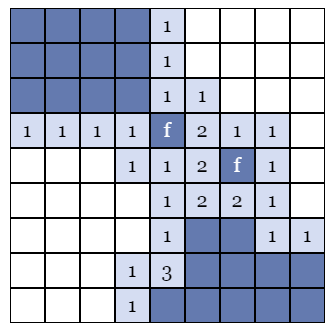
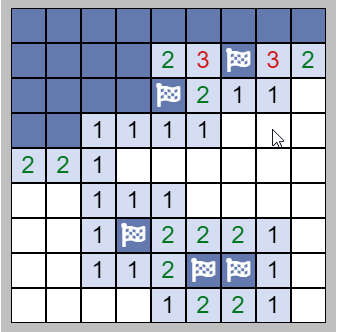
Upgrades minesweeper styling

diff --git a/src/app/games/minesweeper/minesweeper.component.html b/src/app/games/minesweeper/minesweeper.component.html
@@ -1,97 +1,147 @@
 <div class="router-page">
-  <form class="form-inline">
+  <form class="form-inline flex-nowrap">
+    
+    <button class="btn btn-primary mb-2" (click)="createGame()" [disabled]="!validateAll()">
+      <i class="fas fa-sync-alt"></i>
+    </button>
+    <button class="btn btn-primary mb-2" (click)="autoReveal()" [disabled]="gameData.autoReveals <= 0 || !startTime || gameDisabled">
+      <i class="far fa-eye"></i> <span class="badge badge-secondary btn-badge">{{gameData.autoReveals}}</span>
+    </button>
     <label class="sr-only">Unflagged Mines</label>
-    <div class="input-group mb-1 mr-sm-1 value-input-div">
+    <div class="input-group mb-1 mr-xs-1 value-input-div">
       <div class="input-group-prepend">
-        <div class="input-group-text badge-info">Unflagged Mines</div>
+        <div class="input-group-text badge-info"><i class="fas fa-flag-checkered"></i></div>
       </div>
-      <span class="form-control">
+      <span class="form-control unselectable">
         {{grid.getUnflaggedMineCount()}}
       </span>
     </div>
 
     <label class="sr-only">Time</label>
-    <div class="input-group mb-1 mr-sm-1 value-input-div">
+    <div class="input-group mb-1 mr-xs-1 value-input-div">
       <div class="input-group-prepend">
-        <div class="input-group-text badge-info">Timer</div>
+        <div class="input-group-text badge-info"><i class="far fa-clock"></i></div>
       </div>
-      <span class="form-control">
+      <span class="form-control unselectable">
         {{displayTime}}
       </span>
     </div>
   </form>
 
-  <canvas #myCanvas oncontextmenu="return false;" (appPress)="click($event)"></canvas>
+  <div class="canvas-div">
+    <canvas #myCanvas oncontextmenu="return false;" (appPress)="click($event)"></canvas>
+  </div>
 
   <form class="form-inline">
-    <button class="btn btn-primary mb-2" (click)="createGame()" [disabled]="!validateAll()">
-      New Game
+    <button class="btn btn-primary mb-2" (click)="settingsModal.show()">
+      <i class="fas fa-cog"></i> <span class="badge badge-secondary btn-badge">{{difficulty.name}}</span>
     </button>
-    <button class="btn btn-default mb-2" (click)="autoReveal()" [disabled]="gameData.autoReveals <= 0 || !startTime || gameDisabled">
-      Auto Reveal <span class="badge badge-secondary">{{gameData.autoReveals}} left</span>
+    <button class="btn btn-primary mb-2" (click)="statsModal.show()">
+      <i class="fas fa-chart-bar"></i>
+    </button>
+    <button class="btn btn-primary mb-2" (click)="helpModal.show()">
+      <i class="fas fa-question-circle"></i>
     </button>
   </form>
-  <hr />
-
-  <h3>Settings</h3>
-  <form class="form-inline">
-    <label class="sr-only" for="difficulty">Difficulty</label>
-    <div class="input-group mb-1 mr-sm-1 value-input-div">
-      <div class="input-group-prepend">
-        <div class="input-group-text">Difficulty</div>
-      </div>
-      <select class="form-control" id="difficulty" name="difficulty" required [ngModel]="difficulty" (ngModelChange)="onDifficultyChange($event)">
-        <option *ngFor="let diff of difficulties"  name="diff" [ngValue]="diff">{{diff.name}}</option>
-      </select>
-    </div>
-
-    <label class="sr-only" for="gridX">Columns</label>
-    <div class="input-group mb-1 mr-sm-1 value-input-div">
-      <div class="input-group-prepend">
-        <div class="input-group-text">Columns</div>
-      </div>
-      <input type="number" class="form-control" id="gridX" placeholder="X" name="gridX" [(ngModel)]="gridX" (ngModelChange)="createGame()"
-        min="{{minColumns}}" max="{{maxColumns}}" required [ngClass]="{'is-invalid': !validateColumns()}" [disabled]="!difficulty.isCustom">
-    </div>
-
-    <label class="sr-only" for="gridY">Rows</label>
-    <div class="input-group mb-1 mr-sm1 value-input-div">
-      <div class="input-group-prepend">
-        <div class="input-group-text">Rows</div>
-      </div>
-      <input type="number" class="form-control" id="gridY" placeholder="gridY" name="gridY" [(ngModel)]="gridY" (ngModelChange)="createGame()"
-        min="{{minRows}}" max="{{maxRows}}" required [ngClass]="{'is-invalid': !validateRows()}" [disabled]="!difficulty.isCustom">
-    </div>
-
-    <label class="sr-only" for="gridMines">Mines</label>
-    <div class="input-group mb-1 mr-sm1 value-input-div">
-      <div class="input-group-prepend">
-        <div class="input-group-text">Mines</div>
-      </div>
-      <input type="number" class="form-control" id="gridMines" placeholder="gridMines" name="gridMines" [(ngModel)]="gridMines" (ngModelChange)="createGame()"
-        min="{{minMines}}" max="{{getMaxMines()}}" required [ngClass]="{'is-invalid': !validateMines()}" [disabled]="!difficulty.isCustom">
-    </div>
-  </form>
-
-  <hr />
-
-  <h3>Stats</h3>
-  <ul>
-    <li><strong>Difficulty:</strong> {{difficulty.name}}</li>
-    <li><strong>Wins:</strong> {{gameData.wins}}</li>
-    <li><strong>Attempts:</strong> {{gameData.attempts}}</li>
-    <li><strong>Percent Won:</strong> {{gameData.wins / (gameData.attempts || 1) | percent}}</li>
-    <li><strong>Auto Reveals Used:</strong> {{gameData.autoRevealsUsed}}</li>
-  </ul>
-
-  <hr />
-
-  <h3>Controls</h3>
-  <ul>
-    <li><strong>Left Click/Tap:</strong> Reveal cell</li>
-    <li><strong>Right Click/Hold:</strong> Place flag</li>
-    <li><strong>Double Click/Middle Click/Hold:</strong> Reveal adjacent cells (if the correct number of adjacent mines are flagged)</li>
-    <li><strong>Auto Reveal</strong> Randomly flags an unflagged mine. You gain one each time you win a game</li>
-  </ul>
   
+</div>
+
+
+<div class="modal fade" bsModal #settingsModal="bs-modal" [config]="{backdrop: false}"
+tabindex="-1" role="dialog" aria-labelledby="dialog-static-name">
+  <div class="modal-dialog modal-sm">
+    <div class="modal-content">
+      <div class="modal-header">
+        <h4 id="dialog-static-name" class="modal-title pull-left">Settings</h4>
+        <button type="button" class="close pull-right" aria-label="Close" (click)="settingsModal.hide()">
+          <span aria-hidden="true">&times;</span>
+        </button>
+      </div>
+      <div class="modal-body">
+        <form class="form-inline">
+          <label class="sr-only" for="difficulty">Difficulty</label>
+          <div class="input-group mb-1 mr-sm-1 value-input-div">
+            <div class="input-group-prepend">
+              <div class="input-group-text">Difficulty</div>
+            </div>
+            <select class="form-control" id="difficulty" name="difficulty" required [ngModel]="difficulty" (ngModelChange)="onDifficultyChange($event)">
+              <option *ngFor="let diff of difficulties"  name="diff" [ngValue]="diff">{{diff.name}}</option>
+            </select>
+          </div>
+      
+          <label class="sr-only" for="gridX">Columns</label>
+          <div class="input-group mb-1 mr-sm-1 value-input-div">
+            <div class="input-group-prepend">
+              <div class="input-group-text">Columns</div>
+            </div>
+            <input type="number" class="form-control" id="gridX" placeholder="X" name="gridX" [(ngModel)]="gridX" (ngModelChange)="createGame()"
+              min="{{minColumns}}" max="{{maxColumns}}" required [ngClass]="{'is-invalid': !validateColumns()}" [disabled]="!difficulty.isCustom">
+          </div>
+      
+          <label class="sr-only" for="gridY">Rows</label>
+          <div class="input-group mb-1 mr-sm1 value-input-div">
+            <div class="input-group-prepend">
+              <div class="input-group-text">Rows</div>
+            </div>
+            <input type="number" class="form-control" id="gridY" placeholder="gridY" name="gridY" [(ngModel)]="gridY" (ngModelChange)="createGame()"
+              min="{{minRows}}" max="{{maxRows}}" required [ngClass]="{'is-invalid': !validateRows()}" [disabled]="!difficulty.isCustom">
+          </div>
+      
+          <label class="sr-only" for="gridMines">Mines</label>
+          <div class="input-group mb-1 mr-sm1 value-input-div">
+            <div class="input-group-prepend">
+              <div class="input-group-text">Mines</div>
+            </div>
+            <input type="number" class="form-control" id="gridMines" placeholder="gridMines" name="gridMines" [(ngModel)]="gridMines" (ngModelChange)="createGame()"
+              min="{{minMines}}" max="{{getMaxMines()}}" required [ngClass]="{'is-invalid': !validateMines()}" [disabled]="!difficulty.isCustom">
+          </div>
+        </form>
+      </div>
+    </div>
+  </div>
+</div>
+
+<div class="modal fade" bsModal #statsModal="bs-modal" [config]="{backdrop: false}"
+tabindex="-1" role="dialog" aria-labelledby="dialog-static-name">
+  <div class="modal-dialog modal-sm">
+    <div class="modal-content">
+      <div class="modal-header">
+        <h4 id="dialog-static-name" class="modal-title pull-left">Stats</h4>
+        <button type="button" class="close pull-right" aria-label="Close" (click)="statsModal.hide()">
+          <span aria-hidden="true">&times;</span>
+        </button>
+      </div>
+      <div class="modal-body">
+        <ul>
+          <li><strong>Difficulty:</strong> {{difficulty.name}}</li>
+          <li><strong>Wins:</strong> {{gameData.wins}}</li>
+          <li><strong>Attempts:</strong> {{gameData.attempts}}</li>
+          <li><strong>Percent Won:</strong> {{gameData.wins / (gameData.attempts || 1) | percent}}</li>
+          <li><strong>Auto Reveals Used:</strong> {{gameData.autoRevealsUsed}}</li>
+        </ul>
+      </div>
+    </div>
+  </div>
+</div>
+
+<div class="modal fade" bsModal #helpModal="bs-modal" [config]="{backdrop: false}"
+tabindex="-1" role="dialog" aria-labelledby="dialog-static-name">
+  <div class="modal-dialog modal-sm">
+    <div class="modal-content">
+      <div class="modal-header">
+        <h4 id="dialog-static-name" class="modal-title pull-left">Help</h4>
+        <button type="button" class="close pull-right" aria-label="Close" (click)="helpModal.hide()">
+          <span aria-hidden="true">&times;</span>
+        </button>
+      </div>
+      <div class="modal-body">
+        <ul>
+          <li><strong>Left Click/Tap:</strong> Reveal cell</li>
+          <li><strong>Right Click/Hold:</strong> Places a flag (<i class="fas fa-flag-checkered"></i>) to indicate a mine (<i class="fas fa-bomb"></i>)</li>
+          <li><strong>Double Click/Middle Click/Hold:</strong> Reveal adjacent cells (if the correct number of adjacent mines are flagged)</li>
+          <li><strong><i class="far fa-eye"></i> (Auto Reveal):</strong> Randomly flags an unflagged mine. You gain one each time you win a game.</li>
+        </ul>
+      </div>
+    </div>
+  </div>
 </div>

diff --git a/src/app/games/minesweeper/models/cell.model.ts b/src/app/games/minesweeper/models/cell.model.ts
@@ -35,13 +35,12 @@ export class Cell {
     context.fill();
     context.lineWidth = 2;
     context.strokeStyle = 'black';
-    context.font = '24px Times New Roman';
     context.textAlign = 'center';
     context.textBaseline = 'middle';
     if (this.flagged) {
-      this.drawText('f', Color.Flag);
+      this.drawText('\uf11e', Color.Flag, true);
     } else if (this.searched && this.hasMine) {
-      this.drawText('X', Color.Mine);
+      this.drawText('\uf1e2', Color.Mine, true);
     } else if (this.searched && this.neighborMineCount > 0) {
       this.drawText(this.neighborMineCount.toString(), this.getTextColorForNeighborMineCount());
     }
@@ -79,11 +78,13 @@ export class Cell {
     this.draw();
   }
 
-  private drawText(text: string, textColor: Color) {
+  private drawText(text: string, textColor: Color, useFontAwesome: boolean = false) {
+
     const xPos = Cell.width * this.x + Math.floor(Cell.width / 2);
     const yPos = Cell.height * this.y + Math.floor(Cell.height / 2);
     const context = Canvas.instance.context2D;
     context.fillStyle = textColor;
+    context.font = useFontAwesome ? '900 24px "Font Awesome 5 Free"' : '500 24px "Arial"';
     Canvas.instance.context2D.fillText(text, xPos, yPos);
   }
 

diff --git a/src/app/app.component.html b/src/app/app.component.html
@@ -1,12 +1,12 @@
 <nav class="navbar navbar-expand-lg navbar-light bg-light">
-    <a class="navbar-brand">Jnallard.com</a>
+    <a class="navbar-brand" routerLink="/">Jnallard.com</a>
     <button class="navbar-toggler" type="button" (click)="isCollapsed = !isCollapsed" aria-expanded="false">
       <span class="navbar-toggler-icon"></span>
     </button>
   
     <div class="collapse navbar-collapse" id="navbarSupportedContent" [collapse]="isCollapsed">
       <ul class="navbar-nav mr-auto">
-        <li class="nav-item active">
+        <li class="nav-item">
           <a class="nav-link" routerLink="/" routerLinkActive="active">
             Home <span class="sr-only">(current)</span>
           </a>

diff --git a/src/app/games/minesweeper/minesweeper.component.css b/src/app/games/minesweeper/minesweeper.component.css
@@ -10,3 +10,32 @@
 form > button {
   margin-right: .25rem!important;
 }
+
+canvas {
+  border: 10px solid #00000040;
+}
+
+.canvas-div {
+  width: 100%;
+  overflow-x: auto;
+}
+
+.btn-badge {
+  margin-left: 5px;
+}
+
+.modal {
+  background-color: rgba(229, 239, 255, 0.5);
+}
+
+.modal-dialog {
+  opacity: 1;
+}
+
+.unselectable {
+  -webkit-user-select: none; /* Safari */        
+  -moz-user-select: none; /* Firefox */
+  -ms-user-select: none; /* IE10+/Edge */
+  user-select: none; /* Standard */
+}
+

diff --git a/src/index.html b/src/index.html
@@ -10,6 +10,7 @@
 
   <!--link href="https://maxcdn.bootstrapcdn.com/bootstrap/3.3.7/css/bootstrap.min.css" rel="stylesheet"-->
   <link href="https://maxcdn.bootstrapcdn.com/bootstrap/4.0.0/css/bootstrap.min.css" rel="stylesheet">
+  <link rel="stylesheet" href="https://use.fontawesome.com/releases/v5.2.0/css/all.css" integrity="sha384-hWVjflwFxL6sNzntih27bfxkr27PmbbK/iSvJ+a4+0owXq79v+lsFkW54bOGbiDQ" crossorigin="anonymous">
 </head>
 <body>
   <app-root></app-root>

diff --git a/src/app/shared/directives/press.directive.ts b/src/app/shared/directives/press.directive.ts
@@ -74,6 +74,11 @@ export class PressDirective {
   @HostListener('dblclick', ['$event'])
   onDoublePress($event: ISourcePressEvent) {
     this.appPress.emit(new PressEvent(PressType.Double, $event));
+    console.log($event);
+
+    if ($event as MouseEvent) {
+      ($event as MouseEvent).preventDefault();
+    }
   }
 
   private convertTouchEvent($event: TouchEvent) {
